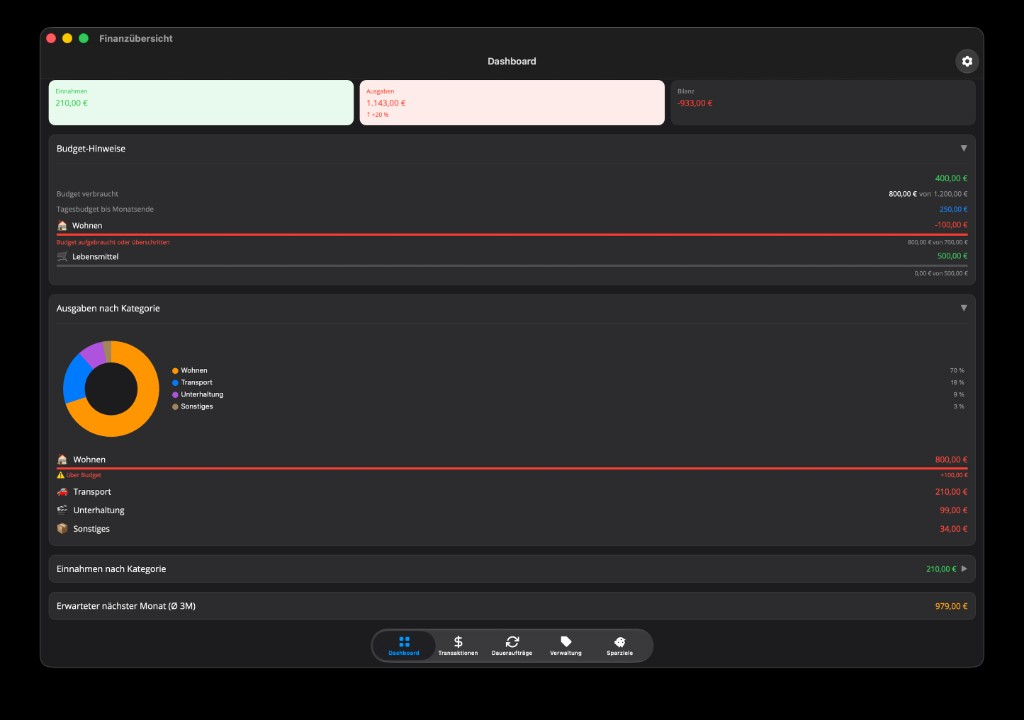
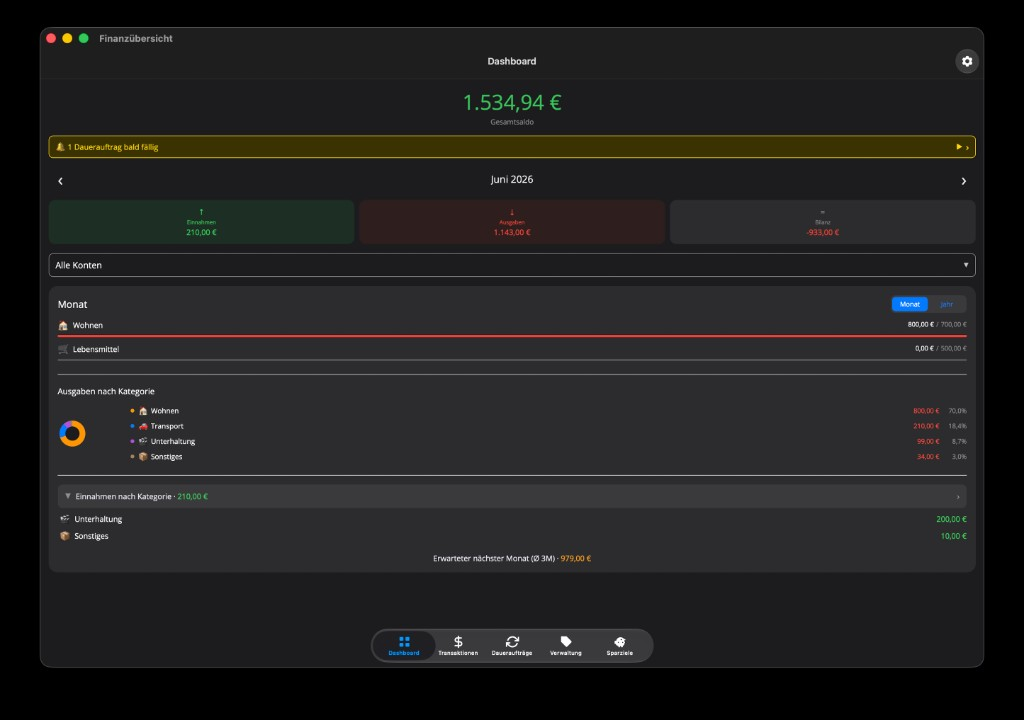
docs: README-Dashboard-Screenshots für neues Layout aktualisieren
Monats- und Jahresansicht sowie Dauerauftrag-Hinweis im überarbeiteten Dashboard.

diff --git a/README.md b/README.md
@@ -40,19 +40,15 @@ Hinweis: Die Benutzeroberfläche unterstützt Deutsch und Englisch; weitere Spra
 
 ### Dashboard
 
-Einheitliche Kacheln mit Kontenübersicht, Cashflow-Hinweis, Monats- und Jahresansicht sowie Budget- und Kategorie-Charts.
+Hero-Saldo, Monats-KPIs und eine Analytics-Karte mit Budget-Balken, Donut-Chart und Kategorieliste. Monat/Jahr-Umschalter in der Karte; fällige Daueraufträge als Hinweis mit Schnellaktionen.
 
-| Monatsübersicht | Konten & 30-Tage-Vorschau |
+| Monatsansicht | Jahresansicht |
 |:---:|:---:|
-| ![Dashboard Übersicht](docs/screenshots/dashboard-uebersicht.png) | ![Dashboard Kontenübersicht](docs/screenshots/dashboard-kontenuebersicht.png) |
+| ![Dashboard Monatsansicht](docs/screenshots/dashboard-monat.png) | ![Dashboard Jahresansicht](docs/screenshots/dashboard-jahr.png) |
 
-| Monatsdetails | Jahresansicht |
-|:---:|:---:|
-| ![Dashboard Monatsdetails](docs/screenshots/dashboard-monat.png) | ![Dashboard Jahresansicht](docs/screenshots/dashboard-jahr.png) |
+Fällige Daueraufträge aufklappen und direkt buchen, überspringen oder verschieben:
 
-Cashflow-Vorschau für die nächsten 30 Tage (inkl. geplanter Daueraufträge):
-
-![Cashflow-Vorschau](docs/screenshots/cashflow.png)
+![Dauerauftrag auf dem Dashboard](docs/screenshots/dashboard-dauerauftrag.png)
 
 ### Transaktionen & Import
 